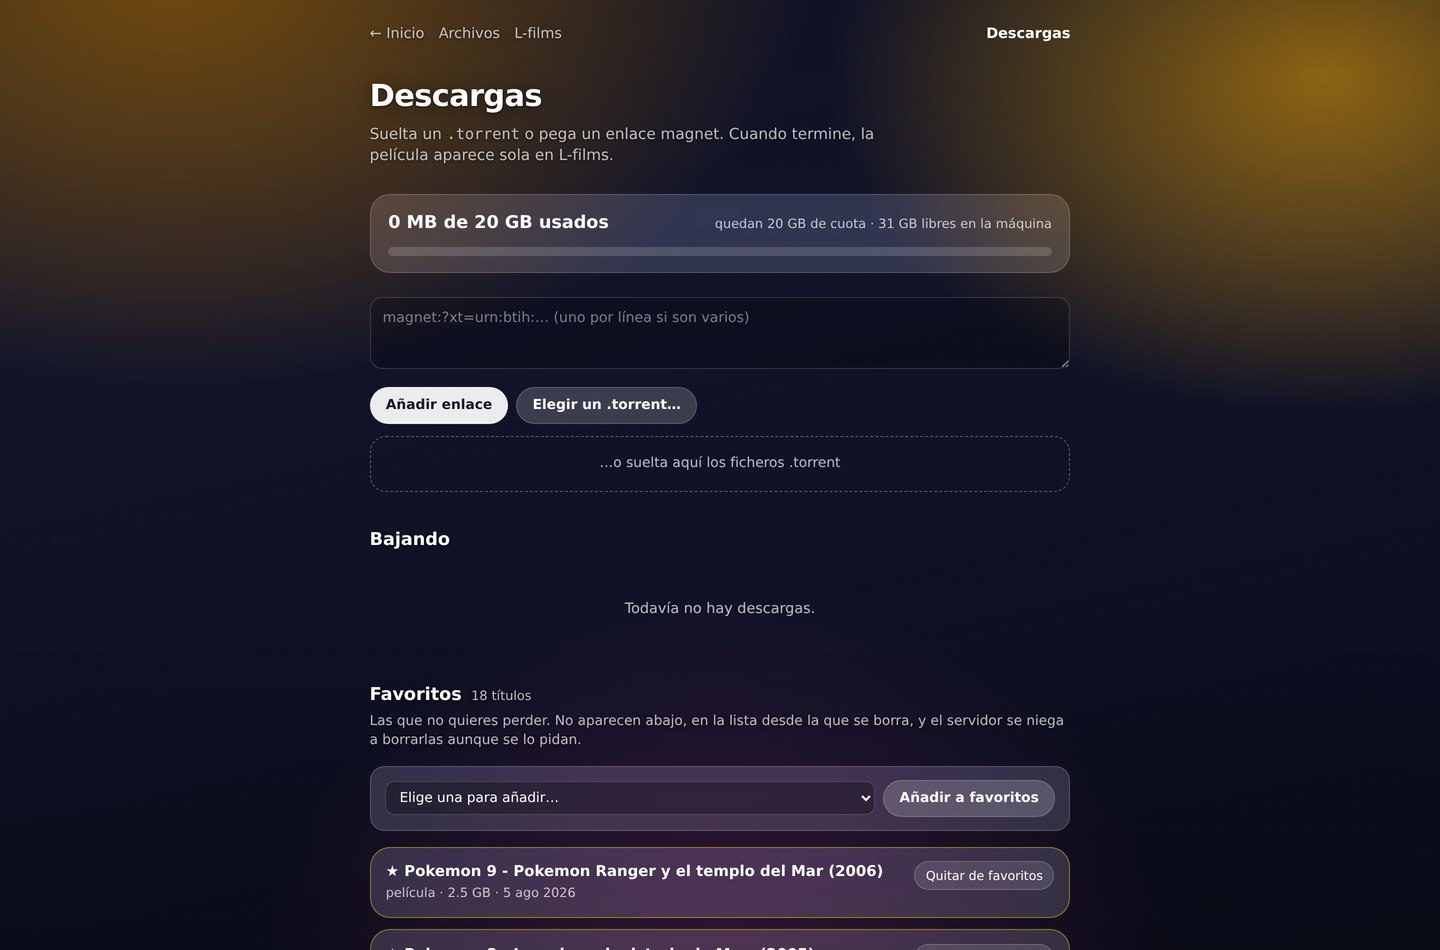
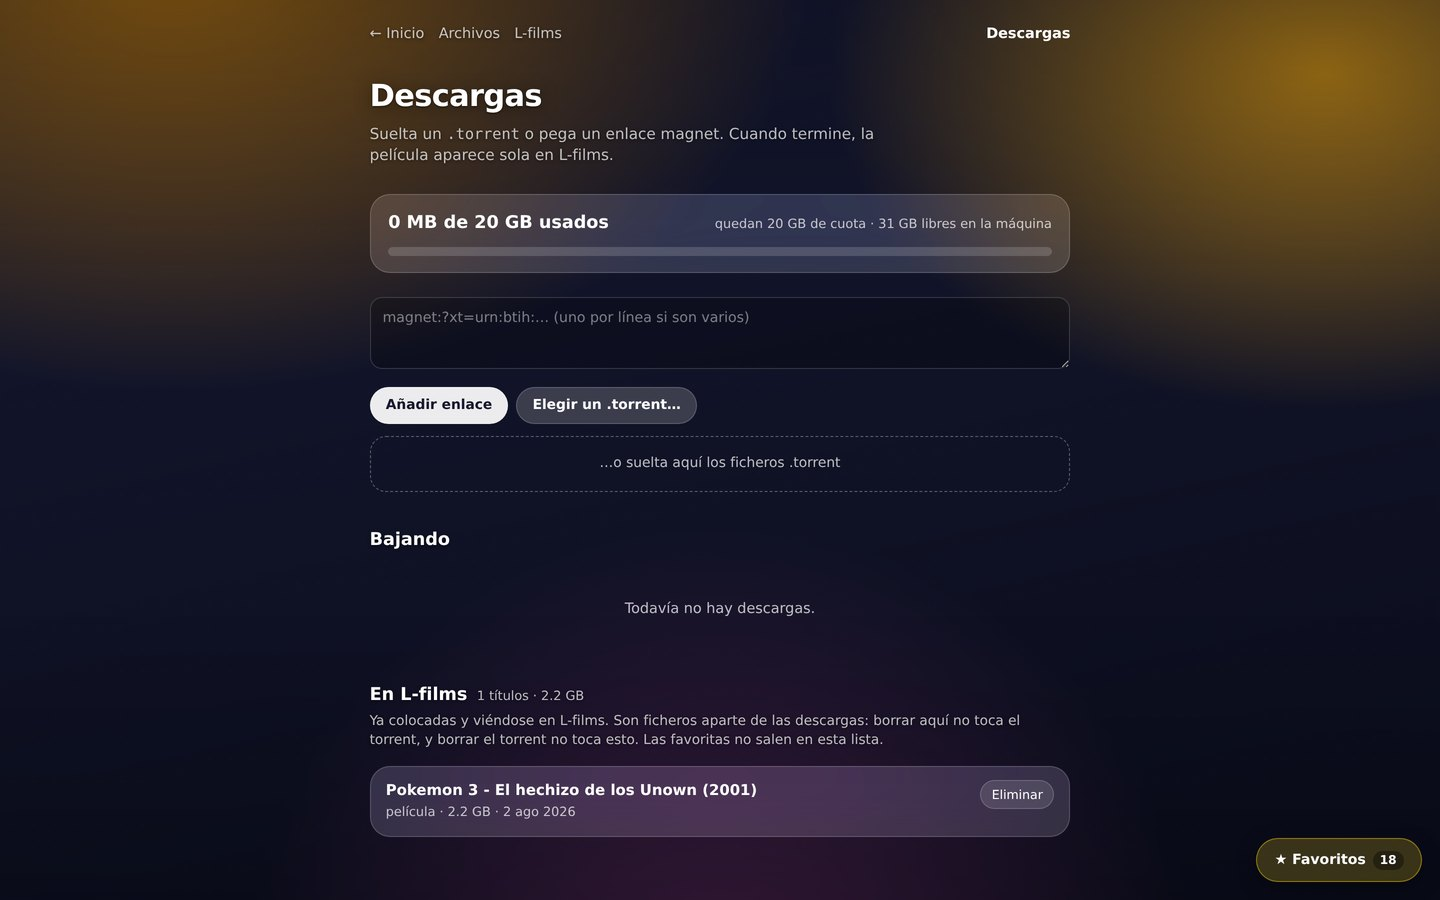
Los favoritos, detras de un boton; y el torrent se retira al terminar
Dos cosas.

Los diecinueve favoritos ocupaban media pagina y empujaban hacia abajo lo que
se viene a hacer a esta pantalla, que es mirar las descargas. Ahora viven detras
de un boton fijo en la esquina de abajo a la derecha, con el numero al lado.
Abajo y no arriba porque arriba esta la barra de navegacion y se le echaria
encima en cuanto la ventana se estrecha.

Al escribir el parche defini el bloque de CSS del boton y luego no lo apliqué:
solo se aplicaron los otros tres reemplazos. El boton salio como un elemento
normal al final de la pagina, en la esquina de abajo a la IZQUIERDA y saliendose
siete pixeles por el borde. Se vio comprobando la posicion real en el navegador,
no leyendo el fichero.

Y lo segundo: cuando una pelicula termina, su torrent se retira solo con sus
datos y libera la cuota. Suena a que se pierde la descarga y no: al completarse
el video ya esta enlazado en el buzon de l-films, y un fichero no se borra de
verdad hasta que no queda ningun enlace apuntandole. Se espera medio minuto
antes de retirar, porque hacerlo en el mismo instante en que marca 100% seria
una carrera contra el enlace que se esta creando.

Probado con una descarga de verdad: 123 MB, retirado solo a los cien segundos,
cuota de vuelta a cero y la pelicula intacta en el buzon con su unico enlace.

Efecto secundario que el README dice: al irse el torrent deja de compartirse.

diff --git a/public/torrents.html b/public/torrents.html
@@ -301,6 +301,83 @@ h2 .cuenta { color: var(--texto-suave); font-size: 0.8rem; font-weight: 400; }
   h1 { font-size: 1.55rem; }
   .envoltorio { padding: 1.1rem 0.85rem 3rem; }
 }
+
+  /*
+   * El botón de la esquina.
+   *
+   * Los favoritos ya no ocupan sitio en la página: eran diecinueve títulos que
+   * empujaban hacia abajo lo que se viene a hacer aquí, que es mirar las
+   * descargas. Ahora viven detrás de este botón.
+   *
+   * Abajo a la derecha y no arriba: arriba está la barra de navegación y se le
+   * echaría encima en cuanto la ventana se estrecha.
+   */
+  .boton-fav {
+    position: fixed;
+    right: max(1.1rem, env(safe-area-inset-right));
+    bottom: max(1.1rem, env(safe-area-inset-bottom));
+    z-index: 40;
+    display: flex;
+    align-items: center;
+    gap: 0.45rem;
+    padding: 0.7rem 1.1rem;
+    color: var(--texto);
+    background: rgba(255, 214, 10, 0.2);
+    border: 1px solid rgba(255, 214, 10, 0.42);
+    border-radius: 999px;
+    font: inherit;
+    font-size: 0.88rem;
+    font-weight: 600;
+    cursor: pointer;
+    backdrop-filter: blur(22px) saturate(160%);
+    -webkit-backdrop-filter: blur(22px) saturate(160%);
+    box-shadow: 0 6px 20px rgba(0, 0, 0, 0.35);
+    transition: background 0.15s, transform 0.15s;
+  }
+  .boton-fav:hover { background: rgba(255, 214, 10, 0.32); transform: translateY(-2px); }
+  .boton-fav .cuantos {
+    padding: 0.05rem 0.45rem;
+    background: rgba(0, 0, 0, 0.35);
+    border-radius: 999px;
+    font-size: 0.76rem;
+    font-variant-numeric: tabular-nums;
+  }
+
+  .panel-fondo {
+    position: fixed;
+    inset: 0;
+    z-index: 55;
+    display: grid;
+    place-items: center;
+    padding: 1rem;
+    background: rgba(0, 0, 0, 0.66);
+    backdrop-filter: blur(6px);
+    -webkit-backdrop-filter: blur(6px);
+  }
+  .panel {
+    display: flex;
+    flex-direction: column;
+    width: min(38rem, 100%);
+    max-height: 100%;
+    padding: 1.3rem;
+    background: var(--cristal);
+    border: 1px solid var(--cristal-borde);
+    border-radius: 1.25rem;
+    backdrop-filter: blur(22px) saturate(160%);
+    -webkit-backdrop-filter: blur(22px) saturate(160%);
+  }
+  .panel-cab {
+    display: flex;
+    align-items: baseline;
+    gap: 0.6rem;
+    margin-bottom: 0.3rem;
+  }
+  .panel-cab h2 { margin: 0; font-size: 1.1rem; }
+  .panel-cab .separa { flex: 1; }
+  /* Solo se desplaza la lista: la cabecera, el desplegable y el botón de cerrar
+     se quedan a la vista con veinte títulos dentro. */
+  .panel-lista { flex: 1; min-height: 0; overflow: auto; display: grid; gap: 0.5rem; }
+
 </style>
 </head>
 <body>
@@ -352,22 +429,6 @@ h2 .cuenta { color: var(--texto-suave); font-size: 0.8rem; font-weight: 400; }
   </section>
 
   <section>
-    <h2>Favoritos <span class="cuenta" id="fav-total"></span></h2>
-    <p class="ayuda">
-      Las que no quieres perder. No aparecen abajo, en la lista desde la que se
-      borra, y el servidor se niega a borrarlas aunque se lo pidan.
-    </p>
-
-    <div class="anadir-fav">
-      <select id="fav-elegir"><option value="">Elige una para añadir…</option></select>
-      <button class="boton" id="fav-anadir" type="button">Añadir a favoritos</button>
-    </div>
-
-    <div class="lista" id="favoritos"></div>
-    <p class="nada" id="fav-vacio" hidden>Todavía no hay favoritos.</p>
-  </section>
-
-  <section>
     <h2>En L-films <span class="cuenta" id="biblio-total"></span></h2>
     <p class="ayuda">
       Ya colocadas y viéndose en L-films. Son ficheros aparte de las descargas:
@@ -378,6 +439,33 @@ h2 .cuenta { color: var(--texto-suave); font-size: 0.8rem; font-weight: 400; }
     <p class="nada" id="biblio-vacio" hidden>No hay nada que no sea favorito.</p>
   </section>
 
+</div>
+
+<button class="boton-fav" id="abrir-fav" type="button">
+  ★ Favoritos <span class="cuantos" id="fav-cuantos">0</span>
+</button>
+
+<div class="panel-fondo" id="panel-fav" hidden>
+  <div class="panel">
+    <div class="panel-cab">
+      <h2>Favoritos</h2>
+      <span class="cuenta" id="fav-total"></span>
+      <span class="separa"></span>
+      <button class="mini" id="fav-cerrar" type="button">Cerrar</button>
+    </div>
+    <p class="ayuda">
+      Las que no quieres perder. No aparecen en la lista desde la que se borra,
+      y el servidor se niega a borrarlas aunque se lo pidan.
+    </p>
+
+    <div class="anadir-fav">
+      <select id="fav-elegir"><option value="">Elige una para añadir…</option></select>
+      <button class="boton" id="fav-anadir" type="button">Añadir a favoritos</button>
+    </div>
+
+    <div class="panel-lista" id="favoritos"></div>
+    <p class="nada" id="fav-vacio" hidden>Todavía no hay favoritos.</p>
+  </div>
 </div>
 
 <script>
@@ -611,6 +699,21 @@ h2 .cuenta { color: var(--texto-suave); font-size: 0.8rem; font-weight: 400; }
     } catch (err) { avisar(err.message, 'malo'); }
   }
 
+  var panel = $('panel-fav');
+
+  $('abrir-fav').onclick = function () {
+    panel.hidden = false;
+    /* Se pide de nuevo al abrir: entre que se cargó la página y ahora puede
+       haber terminado una descarga, y el desplegable de añadir se quedaría sin
+       ella. */
+    refrescarBiblioteca();
+  };
+  $('fav-cerrar').onclick = function () { panel.hidden = true; };
+  panel.onclick = function (e) { if (e.target === panel) panel.hidden = true; };
+  document.addEventListener('keydown', function (e) {
+    if (e.key === 'Escape' && !panel.hidden) panel.hidden = true;
+  });
+
   $('fav-anadir').onclick = async function () {
     var sel = $('fav-elegir');
     if (!sel.value) return avisar('Elige una primero.', 'malo');
@@ -641,6 +744,7 @@ h2 .cuenta { color: var(--texto-suave); font-size: 0.8rem; font-weight: 400; }
     // Favoritas
     $('fav-total').textContent = datos.favoritos.length
       ? datos.favoritos.length + (datos.favoritos.length === 1 ? ' título' : ' títulos') : '';
+    $('fav-cuantos').textContent = datos.favoritos.length;
     var f = $('favoritos');
     f.textContent = '';
     datos.favoritos.forEach(function (p) { f.appendChild(tarjetaFavorita(p)); });

diff --git a/lib/torrents.js b/lib/torrents.js
@@ -303,7 +303,55 @@ async function vigilarCuota() {
   }
 }
 
-const reloj = setInterval(vigilarCuota, 20000);
+/*
+ * Terminada la pelicula, fuera el torrent.
+ *
+ * Y los datos con el, que es lo que libera la cuota. Suena a que se pierde la
+ * descarga, pero no: al completarse, el script de transmission deja el video en
+ * el buzon de l-films con un ENLACE DURO, y un fichero no se borra de verdad
+ * hasta que no queda ningun enlace apuntandole. Al quitar el del torrent, los
+ * bytes siguen vivos en /var/media/entrada esperando al buzon. Es la misma
+ * razon por la que se enlaza en vez de copiar.
+ *
+ * Se espera un poco antes de borrar, en vez de hacerlo en cuanto marca 100%:
+ * el script de terminado se ejecuta al completar, y borrar el torrent en ese
+ * mismo instante seria una carrera contra el enlace que se esta creando. Con
+ * medio minuto de margen no hay carrera que valga.
+ *
+ * Efecto secundario que conviene saber: al irse el torrent deja de compartirse.
+ * Es lo que se pide -- que la cuota quede libre para la siguiente -- pero es un
+ * intercambio, no un regalo.
+ */
+const ESPERA_BORRADO = 30000;
+
+let limpiando = false;
+async function limpiarTerminados() {
+  if (limpiando) return;
+  limpiando = true;
+  try {
+    const torrents = await listar();
+    const ahora = Date.now() / 1000;
+    for (const t of torrents) {
+      const acabado = t.isFinished || t.percentDone === 1;
+      if (!acabado || t.error) continue;
+      // doneDate viene en segundos; si transmission no la trae, se deja estar
+      if (!t.doneDate || (ahora - t.doneDate) * 1000 < ESPERA_BORRADO) continue;
+
+      await rpc('torrent-remove', { ids: [t.id], 'delete-local-data': true });
+      console.log('[torrents] terminado y retirado: ' + t.name
+        + ' (' + gb(t.totalSize || 0) + ' de cuota libres)');
+    }
+  } catch (err) {
+    console.error('[torrents] no he podido retirar los terminados: ' + err.message);
+  } finally {
+    limpiando = false;
+  }
+}
+
+const reloj = setInterval(function () {
+  vigilarCuota();
+  limpiarTerminados();
+}, 20000);
 if (reloj.unref) reloj.unref();
 
 module.exports = { estado, anadir, borrar, arrancar, parar, gb, TOPE };

diff --git a/README.md b/README.md
@@ -76,7 +76,11 @@ al 5 % parece gratis y luego falta cuota sin saber por qué.
 
 ![El apartado de favoritos](assets/screenshots/favoritos.jpg)
 
-Lo que se marca aquí desaparece de la lista desde la que se borra, y el servidor
+Viven detrás del botón de la esquina, no en la página: son diecinueve títulos
+que empujaban hacia abajo lo que se viene a hacer aquí, que es mirar las
+descargas.
+
+Lo que se marca desaparece de la lista desde la que se borra, y el servidor
 **se niega a borrarlo**: devuelve 409 pidiendo que lo quites de favoritos
 primero. Las dos cosas, no solo la primera — esconder el botón evita el
 despiste, pero la petición se puede lanzar igual desde una pestaña vieja donde
@@ -110,6 +114,13 @@ Al terminar, el vídeo se pone en el buzón de L-films con un **enlace duro**, n
 con una copia: el fichero aparece en dos sitios pero ocupa disco una sola vez.
 Con 20 GB de cuota y un disco compartido con la biblioteca, copiar cada película
 dos veces no es una opción.
+
+Y en cuanto está, **el torrent se retira solo** con sus datos, dejando la cuota
+libre para el siguiente. Suena a que se pierde la descarga y no: un fichero no
+se borra de verdad hasta que no queda ningún enlace apuntándole, así que al
+quitar el del torrent los bytes siguen vivos en el buzón esperando a que los
+recoja. Es la misma razón por la que se enlaza en vez de copiar. A cambio, deja
+de compartirse.
 
 ### El tope de 20 GB
 
